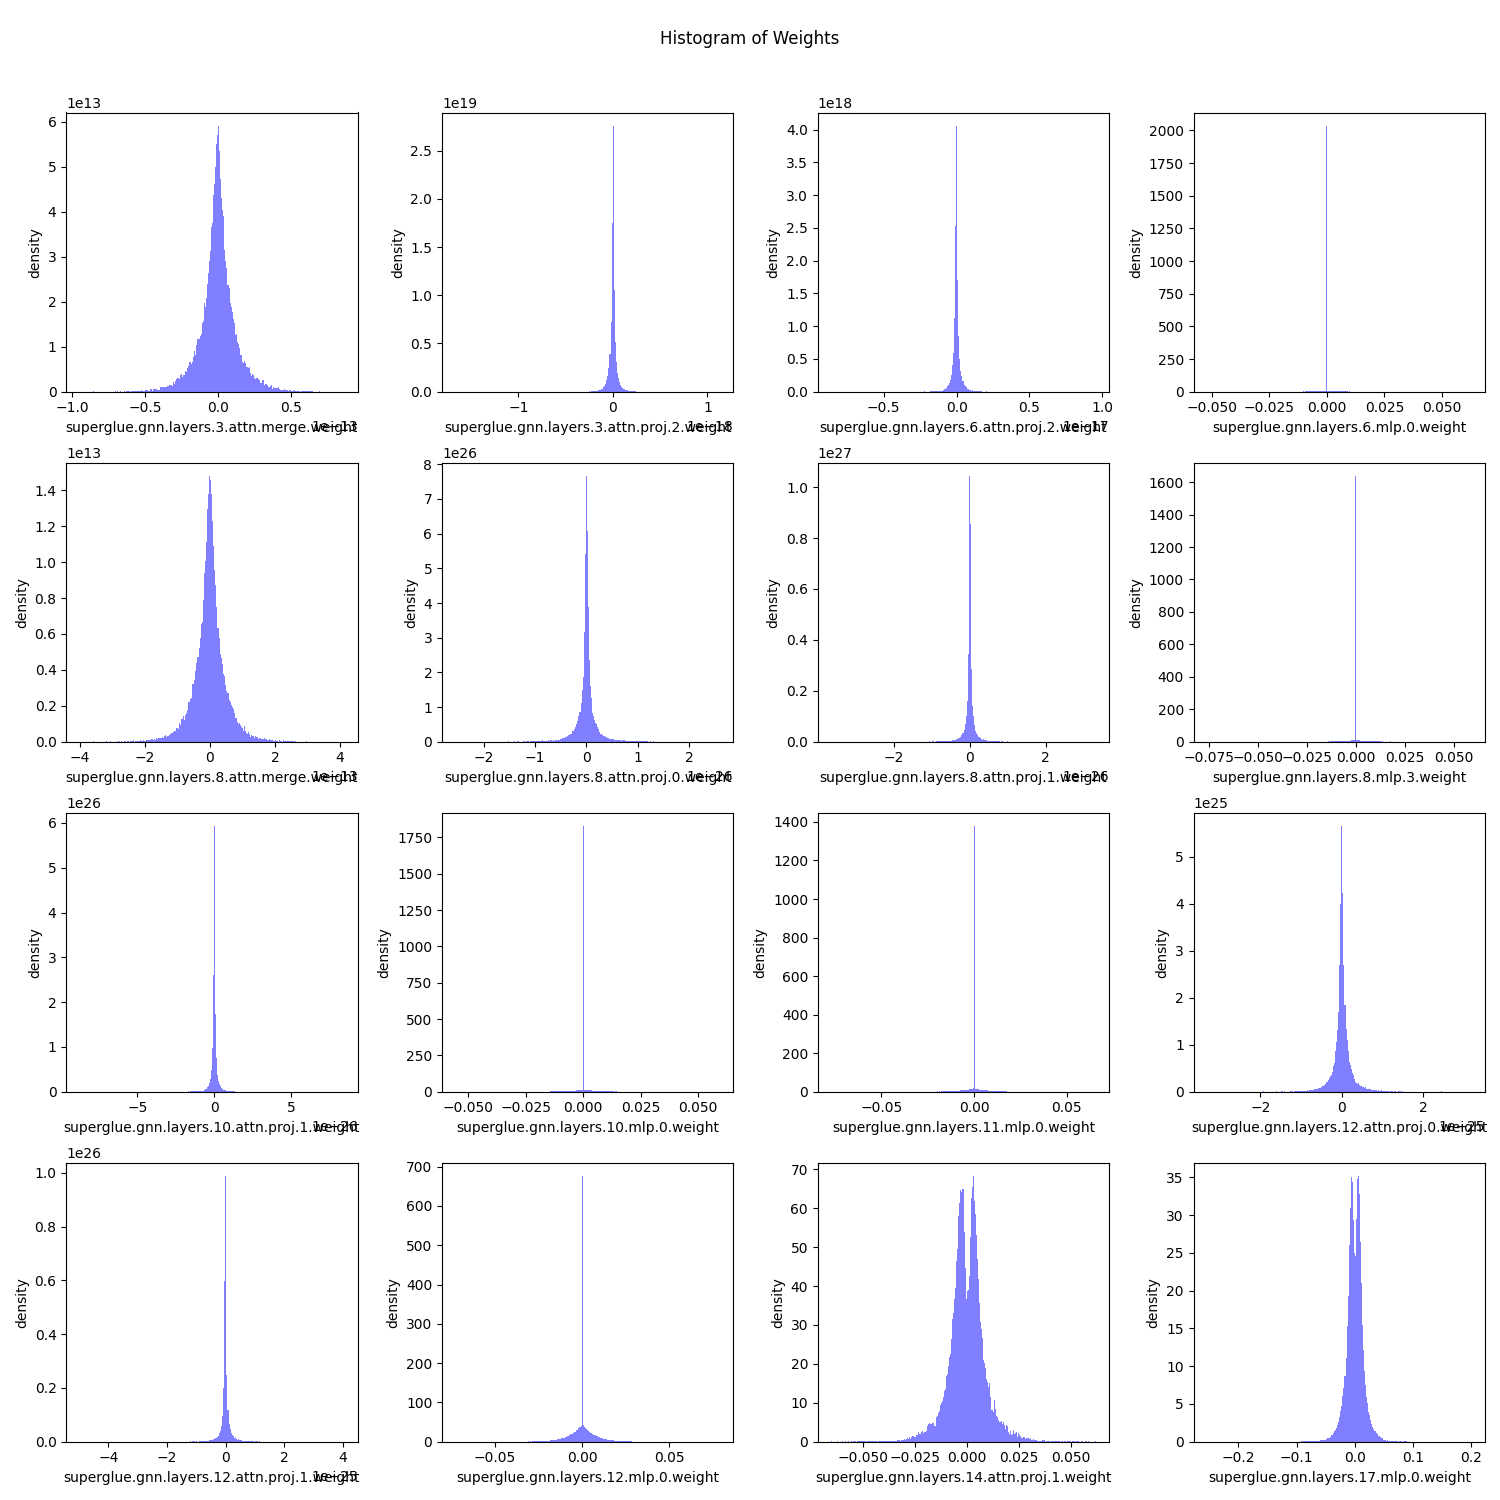
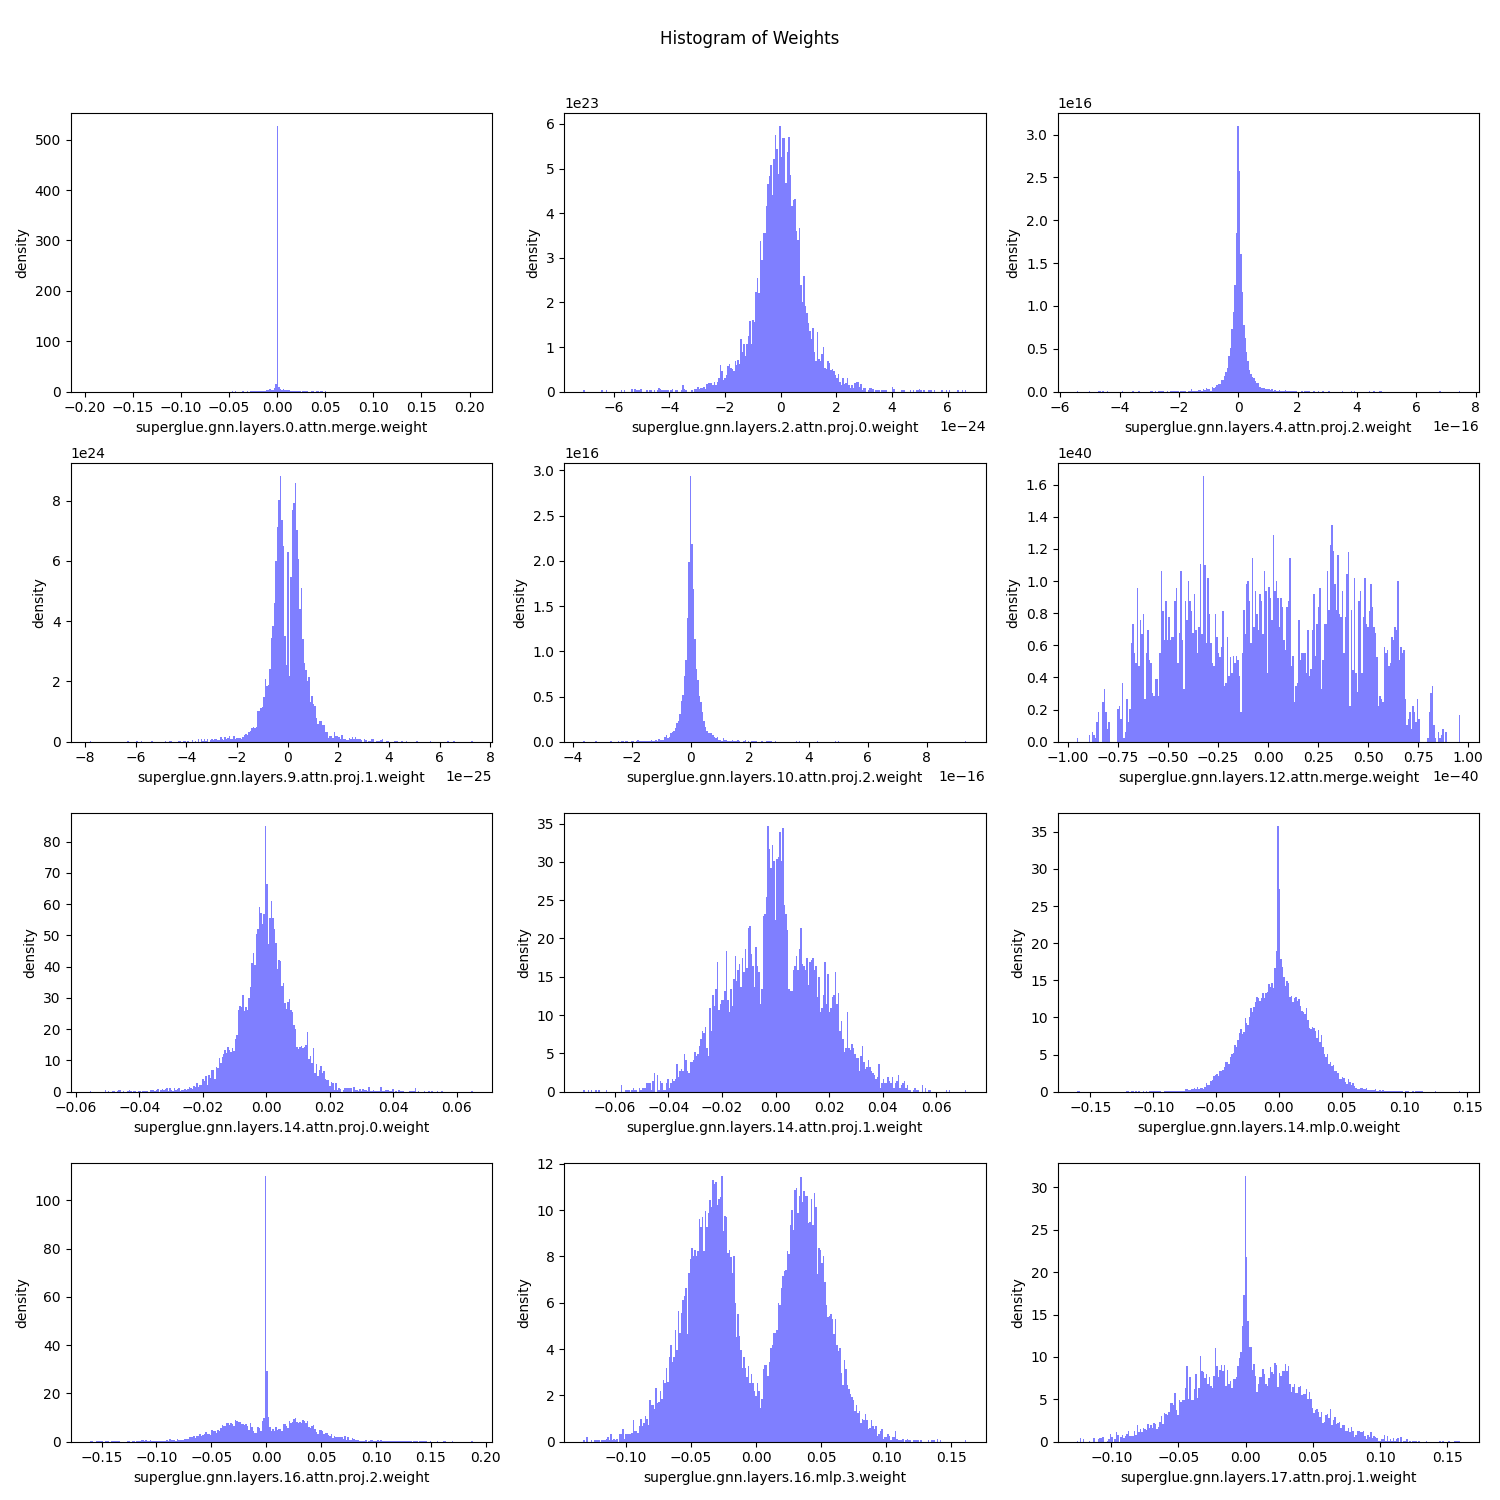
updated files

diff --git a/profile.py b/profile.py
@@ -24,7 +24,7 @@ def main():
             'max_keypoints': -1
         },
         'superglue': {
-            'weights_path': "/Users/nfilliol/Desktop/ETH/MIT_HS22/TinyML/efficient-feature-matching/SuperGlue/models/weights/superglue_finegrained_finetuned.pt",
+            'weights_path': "/Users/nfilliol/Desktop/ETH/MIT_HS22/TinyML/efficient-feature-matching/SuperGlue/models/weights/superglue_cocohomo.pt",
             'sinkhorn_iterations': 20,
             'match_threshold': 0.2,
         }
@@ -33,19 +33,24 @@ def main():
     matching_dense = Matching(config_dense).eval().to(device)
     matching_pruned = Matching(config_pruned).eval().to(device)
 
-    channel_pruner = ChannelPruner(matching_pruned.superpoint, prune_ratio=0.2)
-    matching_pruned.superpoint.load_state_dict(torch.load("/Users/nfilliol/Desktop/ETH/MIT_HS22/TinyML/Project/Experiments/Experiment3/superpoint_finetuned3.pt"))
-    matching_pruned.superglue.load_state_dict(torch.load("/Users/nfilliol/Desktop/ETH/MIT_HS22/TinyML/Project/Experiments/Experiment3/superglue_finetuned3.pt"))
+    #channel_pruner = ChannelPruner(matching_pruned.superpoint, prune_ratio=0.2)
+    matching_pruned.superpoint.load_state_dict(torch.load("/Users/nfilliol/Desktop/ETH/MIT_HS22/TinyML/Project/Experiments/Experiment2/superpoint_finetuned2.pt"))
+    matching_pruned.superglue.load_state_dict(torch.load("/Users/nfilliol/Desktop/ETH/MIT_HS22/TinyML/Project/Experiments/Experiment2/superglue_finetuned2.pt"))
 
 
     # Profile Model
     param_sets_dense = [(name, param) for (name, param) in matching_dense.named_parameters() if param.dim() > 1 and "superglue" in name]
-    sample_param_sets_dense = random.sample(param_sets_dense, 16)
+    sample_param_sets_dense = random.sample(param_sets_dense, 12)
     sample_param_sets_pruned = [(name, param) for (name, param) in matching_pruned.named_parameters() if name in dict(sample_param_sets_dense)]
     helper.plot_weight_distribution(sample_param_sets_dense, out_path="images/weights_superglue_dense.png")
     helper.plot_weight_distribution(sample_param_sets_pruned, out_path="images/weights_superglue_finetuned.png", count_nonzero_only=True)
     print(helper.get_model_sparsity(matching_pruned.superglue))
     print(helper.get_model_sparsity(matching_dense.superglue))
+
+    param_sets_dense = [(name, param) for (name, param) in matching_dense.named_parameters() if param.dim() > 1 and "superpoint" in name]
+    sample_param_sets_dense = random.sample(param_sets_dense, 12)
+    helper.plot_weight_distribution(sample_param_sets_dense, out_path="images/weights_superpoint_dense.png")
+
 
     print("                ###### Dense Model ######")
     helper.profile_matching_model(matching_dense)
